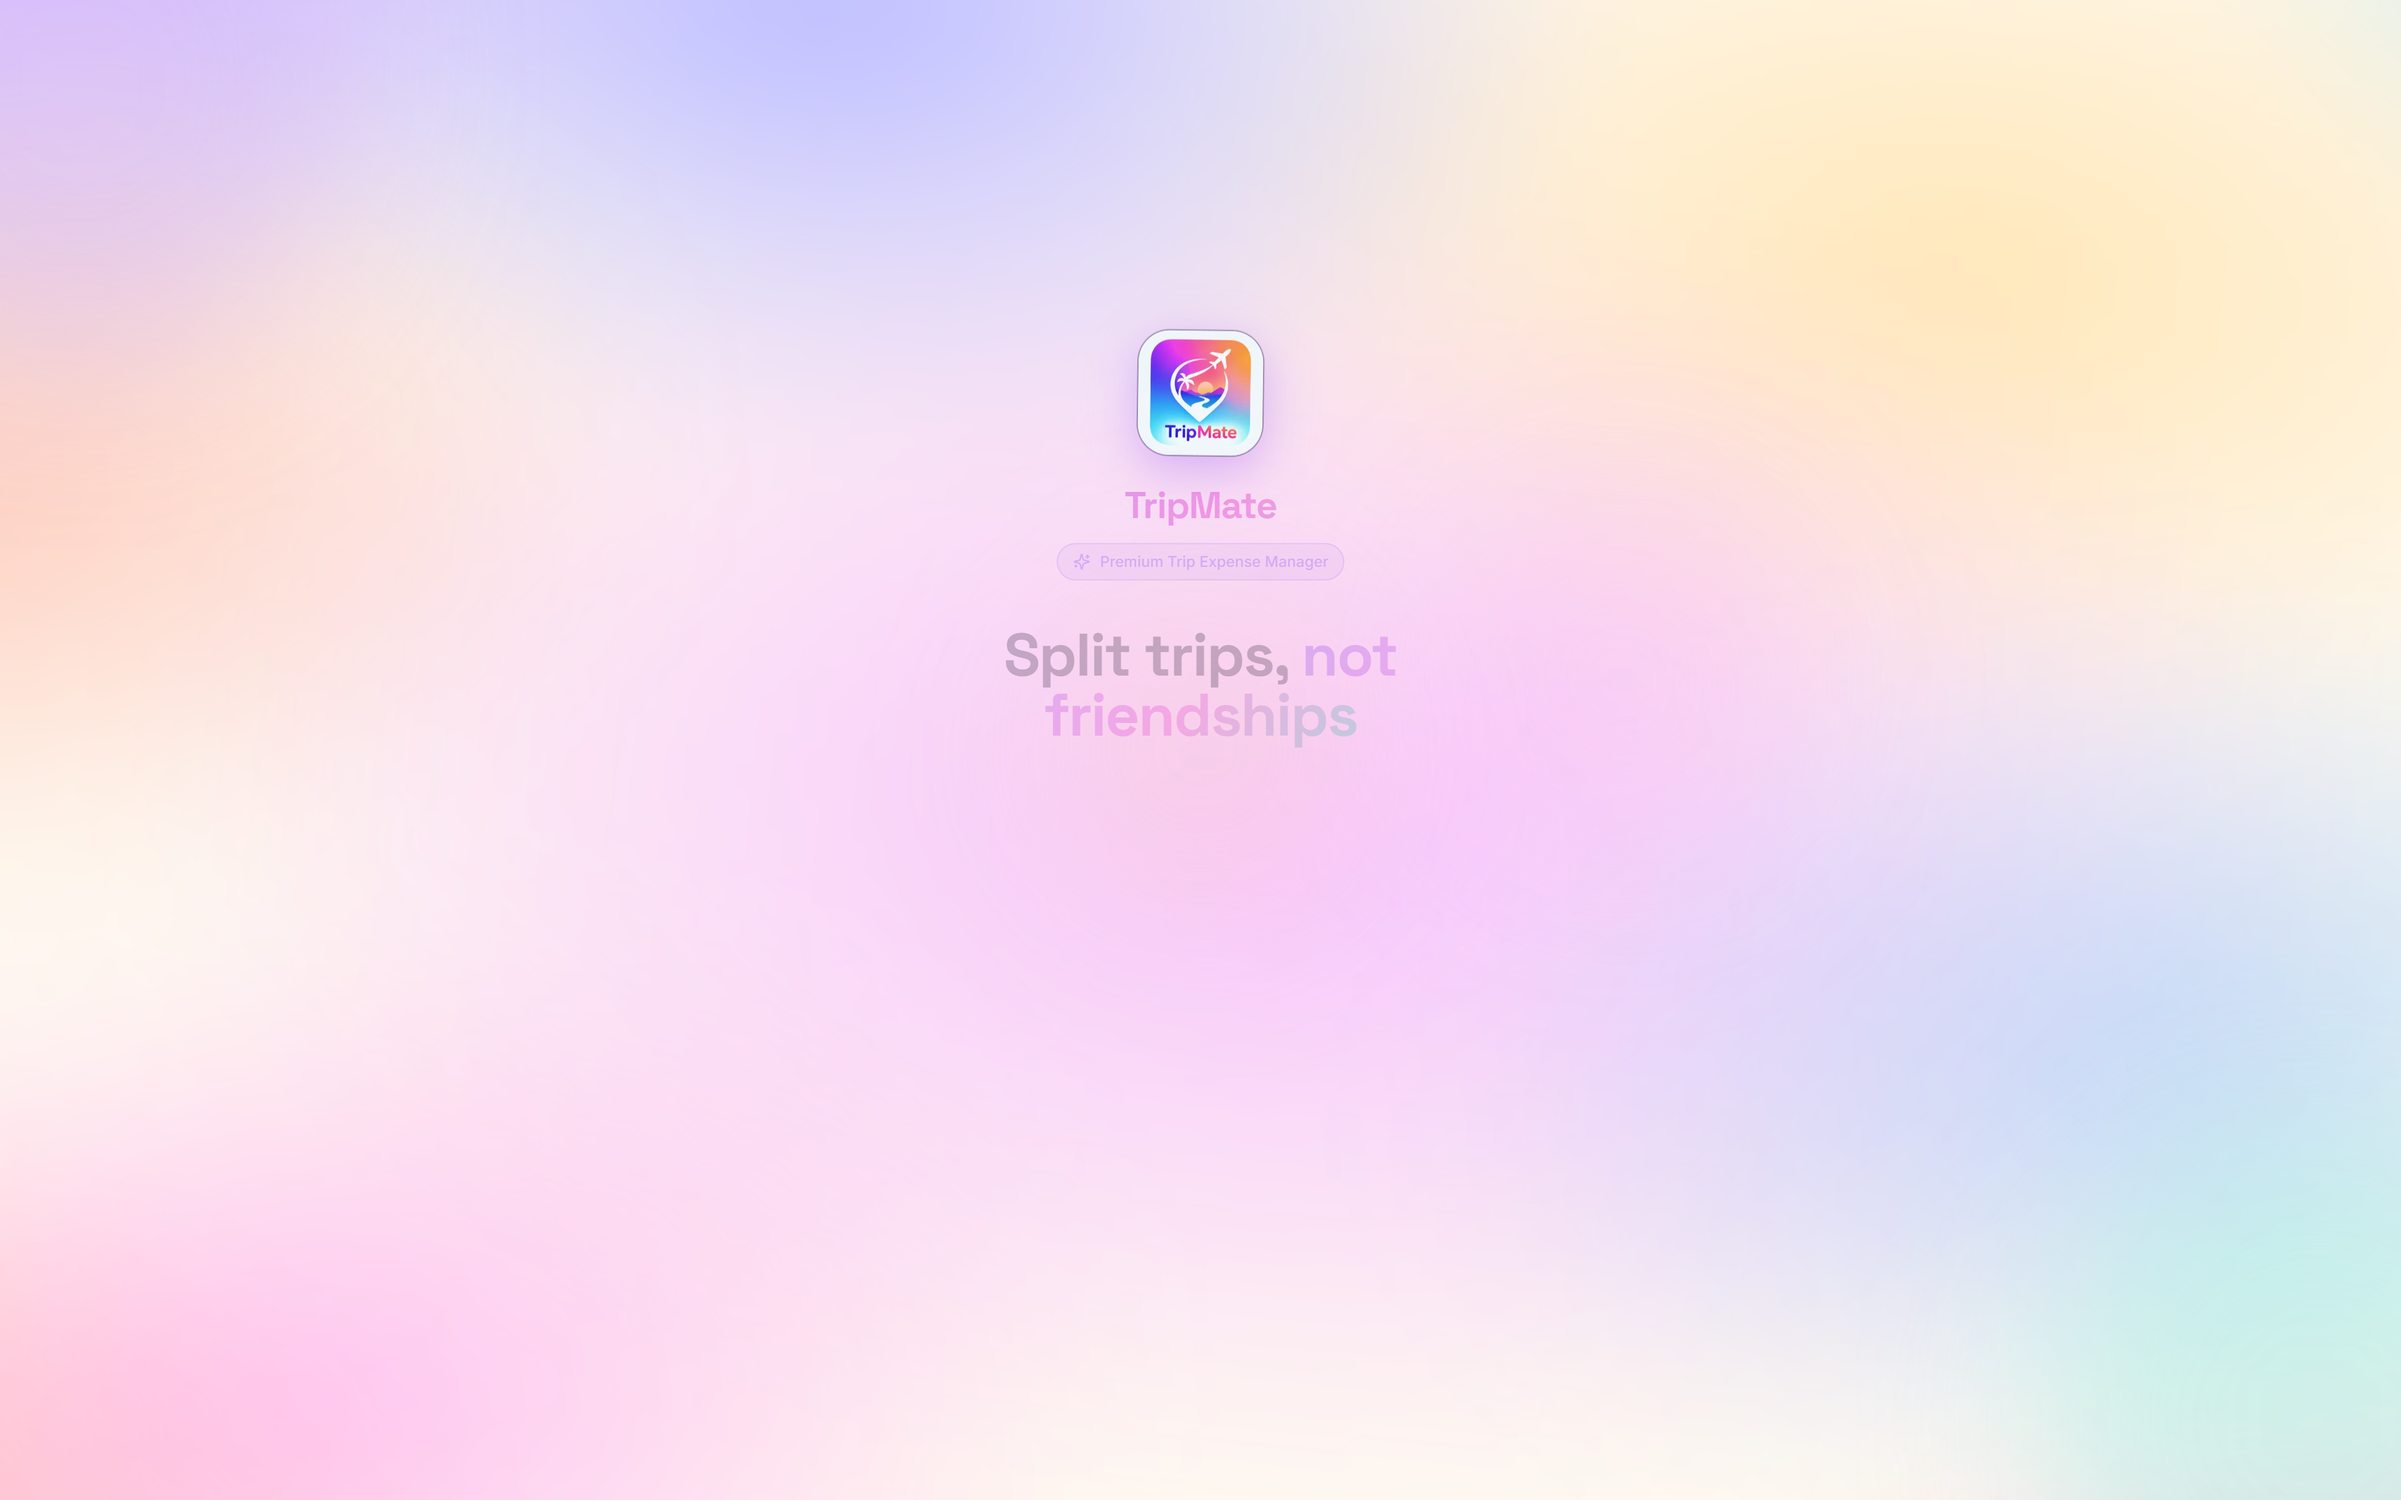
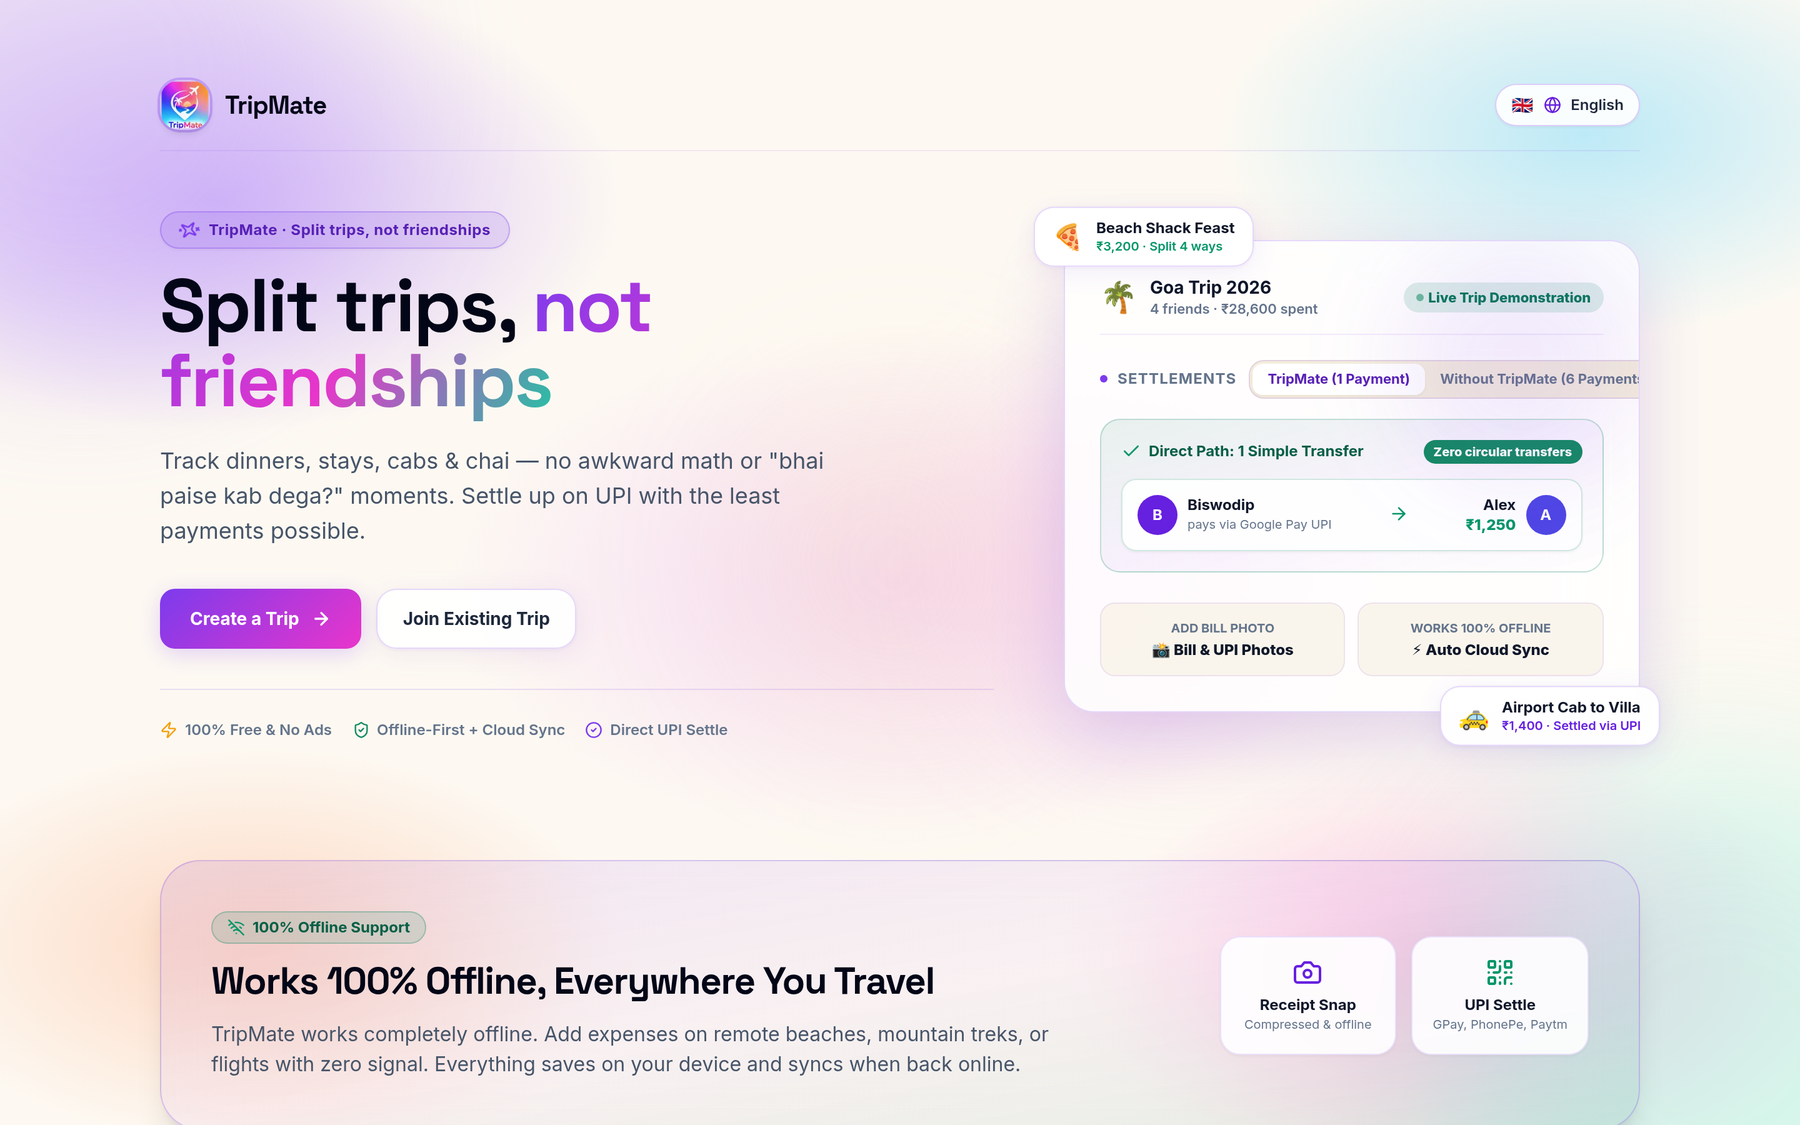
Refresh project screenshots from the redesigned live sites
- Re-captured Erpixa, NanoLink, TelePoint, Nexora and Tripmate
  (tripmate.boats) from their current deployments and rebuilt the
  showcase bookend.
- Re-mapped every live replay to the new layouts: Erpixa's split sign-in,
  TelePoint's updated form, Nexora's new board (APP-101 dragged to Done),
  Tripmate's landing page and settlement card.

Claude-Session: https://claude.ai/code/session_013MbxTHcTUqANZZtK54LGgu

diff --git a/components/cinematic/LiveReplay.tsx b/components/cinematic/LiveReplay.tsx
@@ -14,7 +14,7 @@ type Step =
   | { kind: 'move'; x: number; y: number; ms?: number }
   | { kind: 'click' }
   | { kind: 'type'; box: Box; text: string; mask?: boolean }
-  | { kind: 'drag'; from: Box; x: number; y: number; ms?: number }
+  | { kind: 'drag'; from: Box; x: number; y: number; ms?: number; hole?: string }
   | { kind: 'toast'; x: number; y: number; text: string }
   | { kind: 'wait'; ms: number };
 type Script = { ratio: number; start: { x: number; y: number }; steps: Step[] };
@@ -22,13 +22,14 @@ type Script = { ratio: number; start: { x: number; y: number }; steps: Step[] };
 const SCRIPTS: Record<string, Script> = {
   erpixa: {
     ratio: 1.6,
-    start: { x: 70, y: 82 },
+    start: { x: 30, y: 30 },
     steps: [
-      { kind: 'move', x: 46, y: 54.6 }, { kind: 'click' },
-      { kind: 'type', box: { x: 41.2, y: 53.1, w: 17.6, h: 3 }, text: 'recruiter@company.com' },
-      { kind: 'move', x: 46, y: 61.4, ms: 520 }, { kind: 'click' },
-      { kind: 'type', box: { x: 41.2, y: 59.9, w: 15.5, h: 3 }, text: '••••••••••', mask: true },
-      { kind: 'move', x: 50, y: 66, ms: 560 }, { kind: 'click' },
+      { kind: 'move', x: 24, y: 27.5, ms: 640 },
+      { kind: 'move', x: 76, y: 54.3, ms: 820 }, { kind: 'click' },
+      { kind: 'type', box: { x: 64.3, y: 52.9, w: 24.6, h: 2.9 }, text: 'recruiter@company.com' },
+      { kind: 'move', x: 69.4, y: 64.1, ms: 520 }, { kind: 'click' },
+      { kind: 'type', box: { x: 64.3, y: 62.7, w: 22.4, h: 2.9 }, text: '••••••••••', mask: true },
+      { kind: 'move', x: 76, y: 71, ms: 560 }, { kind: 'click' },
       { kind: 'wait', ms: 900 },
     ],
   },
@@ -36,46 +37,47 @@ const SCRIPTS: Record<string, Script> = {
     ratio: 1.6,
     start: { x: 78, y: 30 },
     steps: [
-      { kind: 'move', x: 44, y: 49.1 }, { kind: 'click' },
-      { kind: 'type', box: { x: 40.4, y: 47.8, w: 8.1, h: 2.7 }, text: 'example.com/launch' },
-      { kind: 'move', x: 58.8, y: 49.1, ms: 620 }, { kind: 'click' },
-      { kind: 'toast', x: 50, y: 58.5, text: 'nanl.vercel.app/read' },
-      { kind: 'move', x: 63, y: 62.5, ms: 700 },
+      { kind: 'move', x: 40.3, y: 65.2 }, { kind: 'click' },
+      { kind: 'type', box: { x: 37.2, y: 63.9, w: 8.9, h: 2.7 }, text: 'example.com/launch' },
+      { kind: 'move', x: 61.5, y: 65.2, ms: 620 }, { kind: 'click' },
+      { kind: 'toast', x: 50, y: 75.5, text: 'nanl.vercel.app/read' },
+      { kind: 'move', x: 61, y: 80, ms: 700 },
       { kind: 'wait', ms: 1100 },
     ],
   },
   telepoint: {
-    ratio: 1.44,
+    ratio: 1.6,
     start: { x: 76, y: 24 },
     steps: [
-      { kind: 'move', x: 55.6, y: 45.3 }, { kind: 'click' },
-      { kind: 'move', x: 44.4, y: 45.3, ms: 520 }, { kind: 'click' },
-      { kind: 'move', x: 46, y: 56.6, ms: 560 }, { kind: 'click' },
-      { kind: 'type', box: { x: 41.5, y: 55.1, w: 19, h: 3 }, text: 'admin' },
-      { kind: 'move', x: 46, y: 64.8, ms: 520 }, { kind: 'click' },
-      { kind: 'type', box: { x: 41.5, y: 63.3, w: 16.3, h: 3 }, text: '••••••••••', mask: true },
-      { kind: 'move', x: 50, y: 71, ms: 560 }, { kind: 'click' },
+      { kind: 'move', x: 55.4, y: 44.4 }, { kind: 'click' },
+      { kind: 'move', x: 44.6, y: 44.4, ms: 520 }, { kind: 'click' },
+      { kind: 'move', x: 48.6, y: 57.2, ms: 560 }, { kind: 'click' },
+      { kind: 'type', box: { x: 41.8, y: 55.9, w: 18.6, h: 2.7 }, text: 'admin' },
+      { kind: 'move', x: 48.6, y: 66.3, ms: 520 }, { kind: 'click' },
+      { kind: 'type', box: { x: 41.8, y: 65, w: 16.5, h: 2.7 }, text: '••••••••••', mask: true },
+      { kind: 'move', x: 50, y: 73.2, ms: 560 }, { kind: 'click' },
       { kind: 'wait', ms: 900 },
     ],
   },
   nexora: {
     ratio: 1.6,
-    start: { x: 80, y: 20 },
+    start: { x: 70, y: 16 },
     steps: [
-      { kind: 'move', x: 56.4, y: 32.6 }, { kind: 'click' },
-      { kind: 'move', x: 20, y: 59.5, ms: 780 },
-      { kind: 'drag', from: { x: 9.4, y: 56.2, w: 25.6, h: 7.6 }, x: 75.7, y: 68.6, ms: 1500 },
+      { kind: 'move', x: 30.8, y: 18.7 },
+      { kind: 'move', x: 18.1, y: 54.4, ms: 820 },
+      { kind: 'drag', from: { x: 12.4, y: 51.1, w: 23.7, h: 11.2 }, x: 69.7, y: 66.4, ms: 1500, hole: '#edede8' },
       { kind: 'wait', ms: 1200 },
     ],
   },
   tripmate: {
     ratio: 1.6,
-    start: { x: 72, y: 76 },
+    start: { x: 40, y: 80 },
     steps: [
-      { kind: 'move', x: 50, y: 26.2 }, { kind: 'click' },
-      { kind: 'move', x: 50, y: 37.3, ms: 560 }, { kind: 'click' },
-      { kind: 'move', x: 44, y: 45.6, ms: 620 },
-      { kind: 'move', x: 57, y: 47.8, ms: 900 },
+      { kind: 'move', x: 14.4, y: 55, ms: 760 },
+      { kind: 'move', x: 85.8, y: 33.7, ms: 900 },
+      { kind: 'move', x: 74.4, y: 33.7, ms: 520 }, { kind: 'click' },
+      { kind: 'move', x: 75, y: 45.6, ms: 620 },
+      { kind: 'move', x: 14.4, y: 55, ms: 900 }, { kind: 'click' },
       { kind: 'wait', ms: 900 },
     ],
   },
@@ -162,7 +164,7 @@ export function LiveReplay({ slug, image }: { slug: string; image: string }) {
       const r = boxPx(box);
       const field = document.createElement('span');
       field.className = 'replay-field' + (mask ? ' is-mask' : '');
-      Object.assign(field.style, { left: r.left + 'px', top: r.top + 'px', width: r.width + 'px', height: r.height + 'px', fontSize: Math.max(7, r.f.iw * 0.0105) + 'px' });
+      Object.assign(field.style, { left: r.left + 'px', top: r.top + 'px', width: r.width + 'px', height: r.height + 'px', fontSize: Math.max(5.5, r.f.iw * 0.0105) + 'px' });
       const caret = document.createElement('i');
       field.appendChild(caret);
       layer.appendChild(field);
@@ -183,11 +185,12 @@ export function LiveReplay({ slug, image }: { slug: string; image: string }) {
       layer.appendChild(el);
       el.animate([{ opacity: 0, translate: '-50% 30%' }, { opacity: 1, translate: '-50% -50%' }], { duration: 420, easing: 'cubic-bezier(.2,1.3,.4,1)', fill: 'forwards' });
     };
-    const drag = async (id: number, from: Box, x: number, y: number, ms = 1400) => {
+    const drag = async (id: number, from: Box, x: number, y: number, ms = 1400, holeBg?: string) => {
       const r = boxPx(from);
       const hole = document.createElement('span');
       hole.className = 'replay-hole';
       Object.assign(hole.style, { left: r.left + 'px', top: r.top + 'px', width: r.width + 'px', height: r.height + 'px' });
+      if (holeBg) hole.style.background = holeBg;
       const card = document.createElement('span');
       card.className = 'replay-card';
       Object.assign(card.style, {
@@ -225,7 +228,7 @@ export function LiveReplay({ slug, image }: { slug: string; image: string }) {
           if (step.kind === 'move') await moveTo(id, step.x, step.y, step.ms);
           else if (step.kind === 'click') await click();
           else if (step.kind === 'type') await type(id, step.box, step.text, step.mask);
-          else if (step.kind === 'drag') await drag(id, step.from, step.x, step.y, step.ms);
+          else if (step.kind === 'drag') await drag(id, step.from, step.x, step.y, step.ms, step.hole);
           else if (step.kind === 'toast') toast(step.x, step.y, step.text);
           else await sleep(step.ms);
           await sleep(140);

diff --git a/MEMORY.md b/MEMORY.md
@@ -250,5 +250,5 @@
 - Portfolio domain is **https://biswadip.in** everywhere (canonical, sitemap, JSON-LD, tests, résumé). No remaining biswodip.in references.
 - Tripmate live link is **https://tripmate.boats/** (data.ts url/liveLink, capture script, résumé PDF regenerated).
 - components/cinematic/LiveReplay.tsx plays a looping recorded-style session over each real screenshot inside ProjectMedia (home chapters and /project/[slug]): loading bar opens the site, cursor moves/clicks, types into real fields, Nexora card drag, NanoLink short-link result, REC badge with timer. Coordinates are screenshot percentages mapped through cover/top. Pauses off-screen; hidden for reduced motion and no-JS.
-- Real browser recordings of the live sites were not captured: loading them in headless Chromium required a proxy certificate flag that was not permitted in the cloud session. The Tripmate screenshot is still the old splash capture; re-capture from tripmate.boats locally with scripts/capture-4k.js.
-- tests/motion.spec.ts:100 (desktop 3D depth scrub) is flaky on the unmodified base too (~2/5 failures in Chromium).
+- 2026-09-27: User approved capturing the live sites. All five screenshots were re-captured from the redesigned live apps at 1440×900 @2x (Nexora scrolled 440px to show its board), converted with scripts/convert-4k.js, showcase-bookend rebuilt. Replay coordinates re-mapped to the new layouts. After replacing previews locally, clear .next/cache/images or next start serves stale optimized images.
+- tests/motion.spec.ts:100 (desktop 3D depth scrub) and :45 (reduced-motion glyph opacity) fail intermittently on the unmodified base 7a8a645 too in cloud Chromium (:45 failed 7/8 there).
